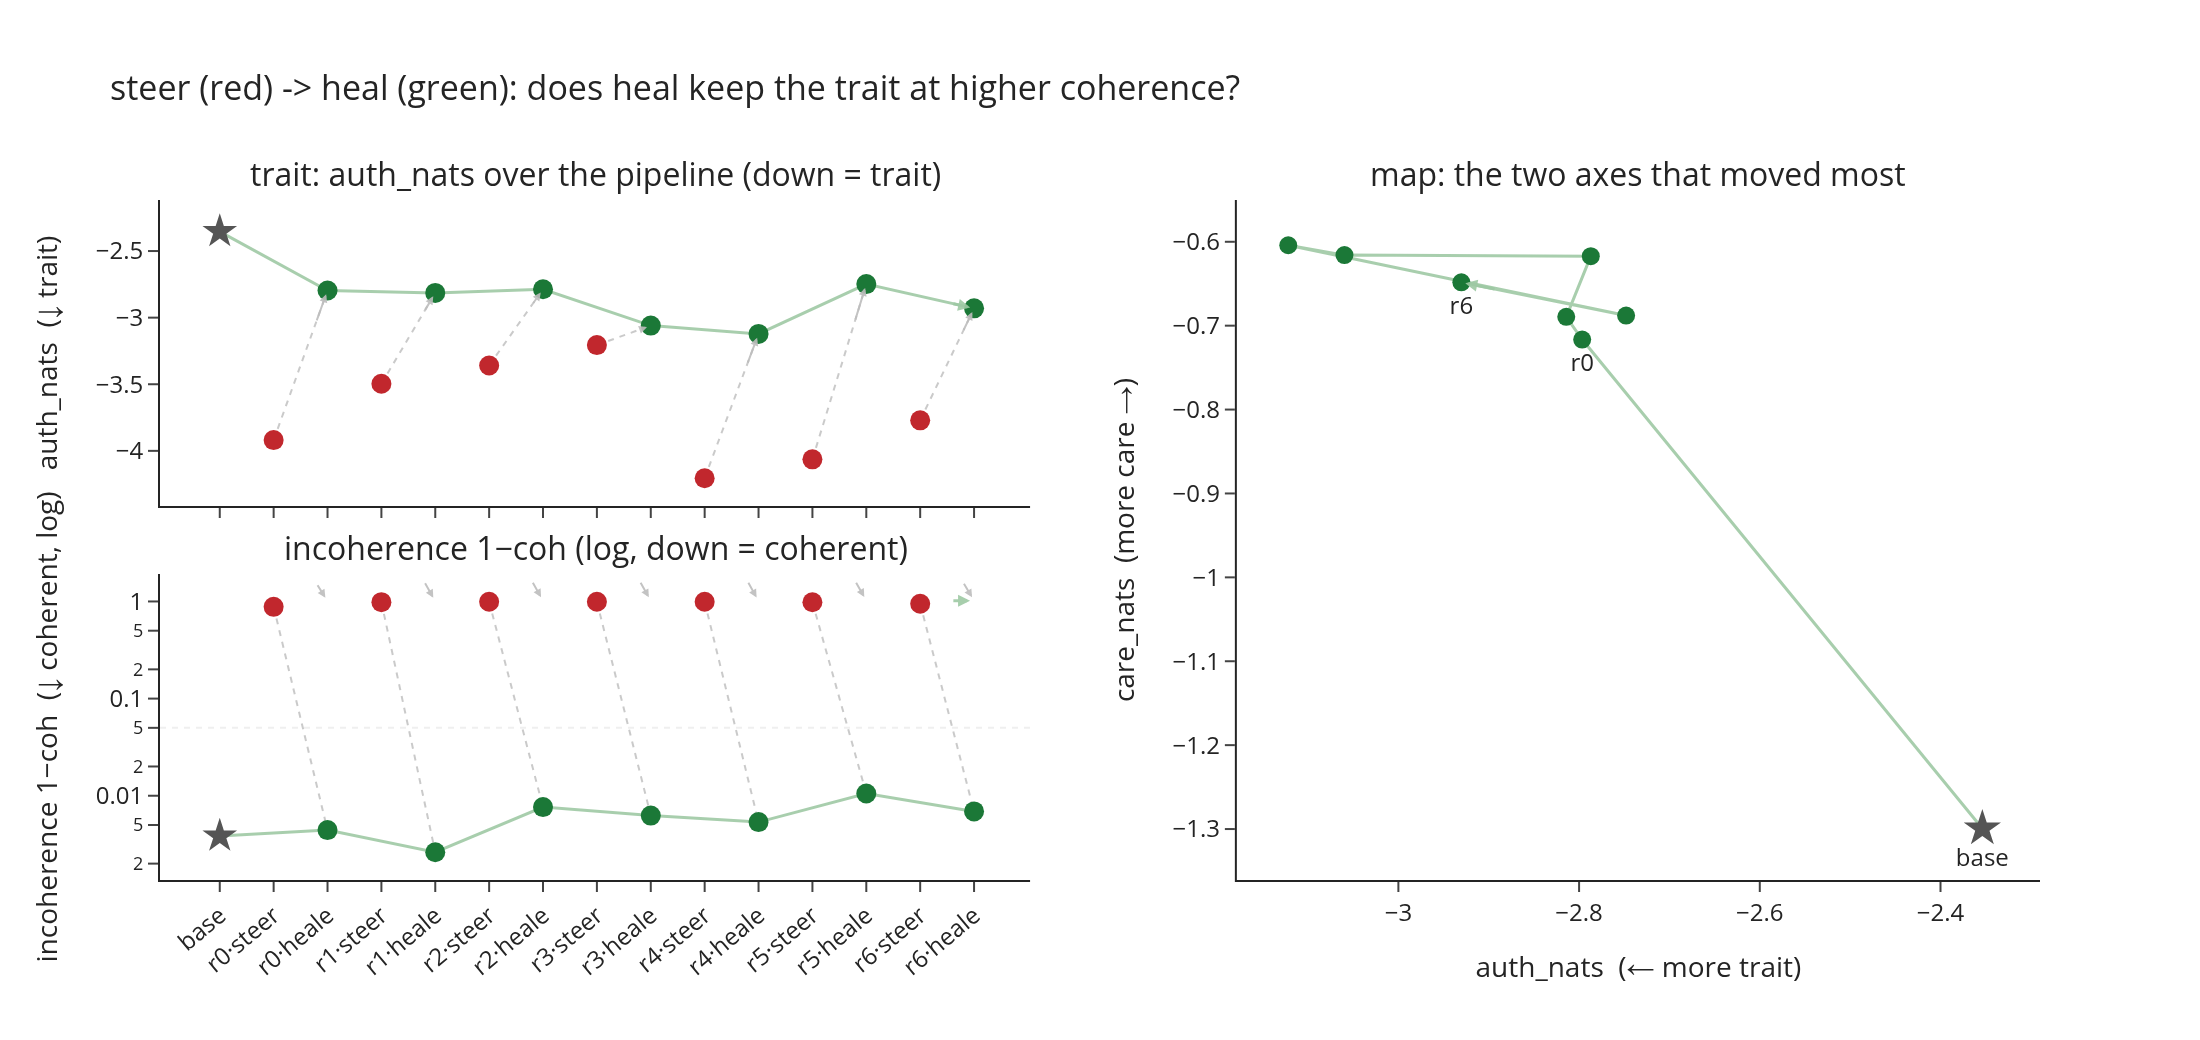
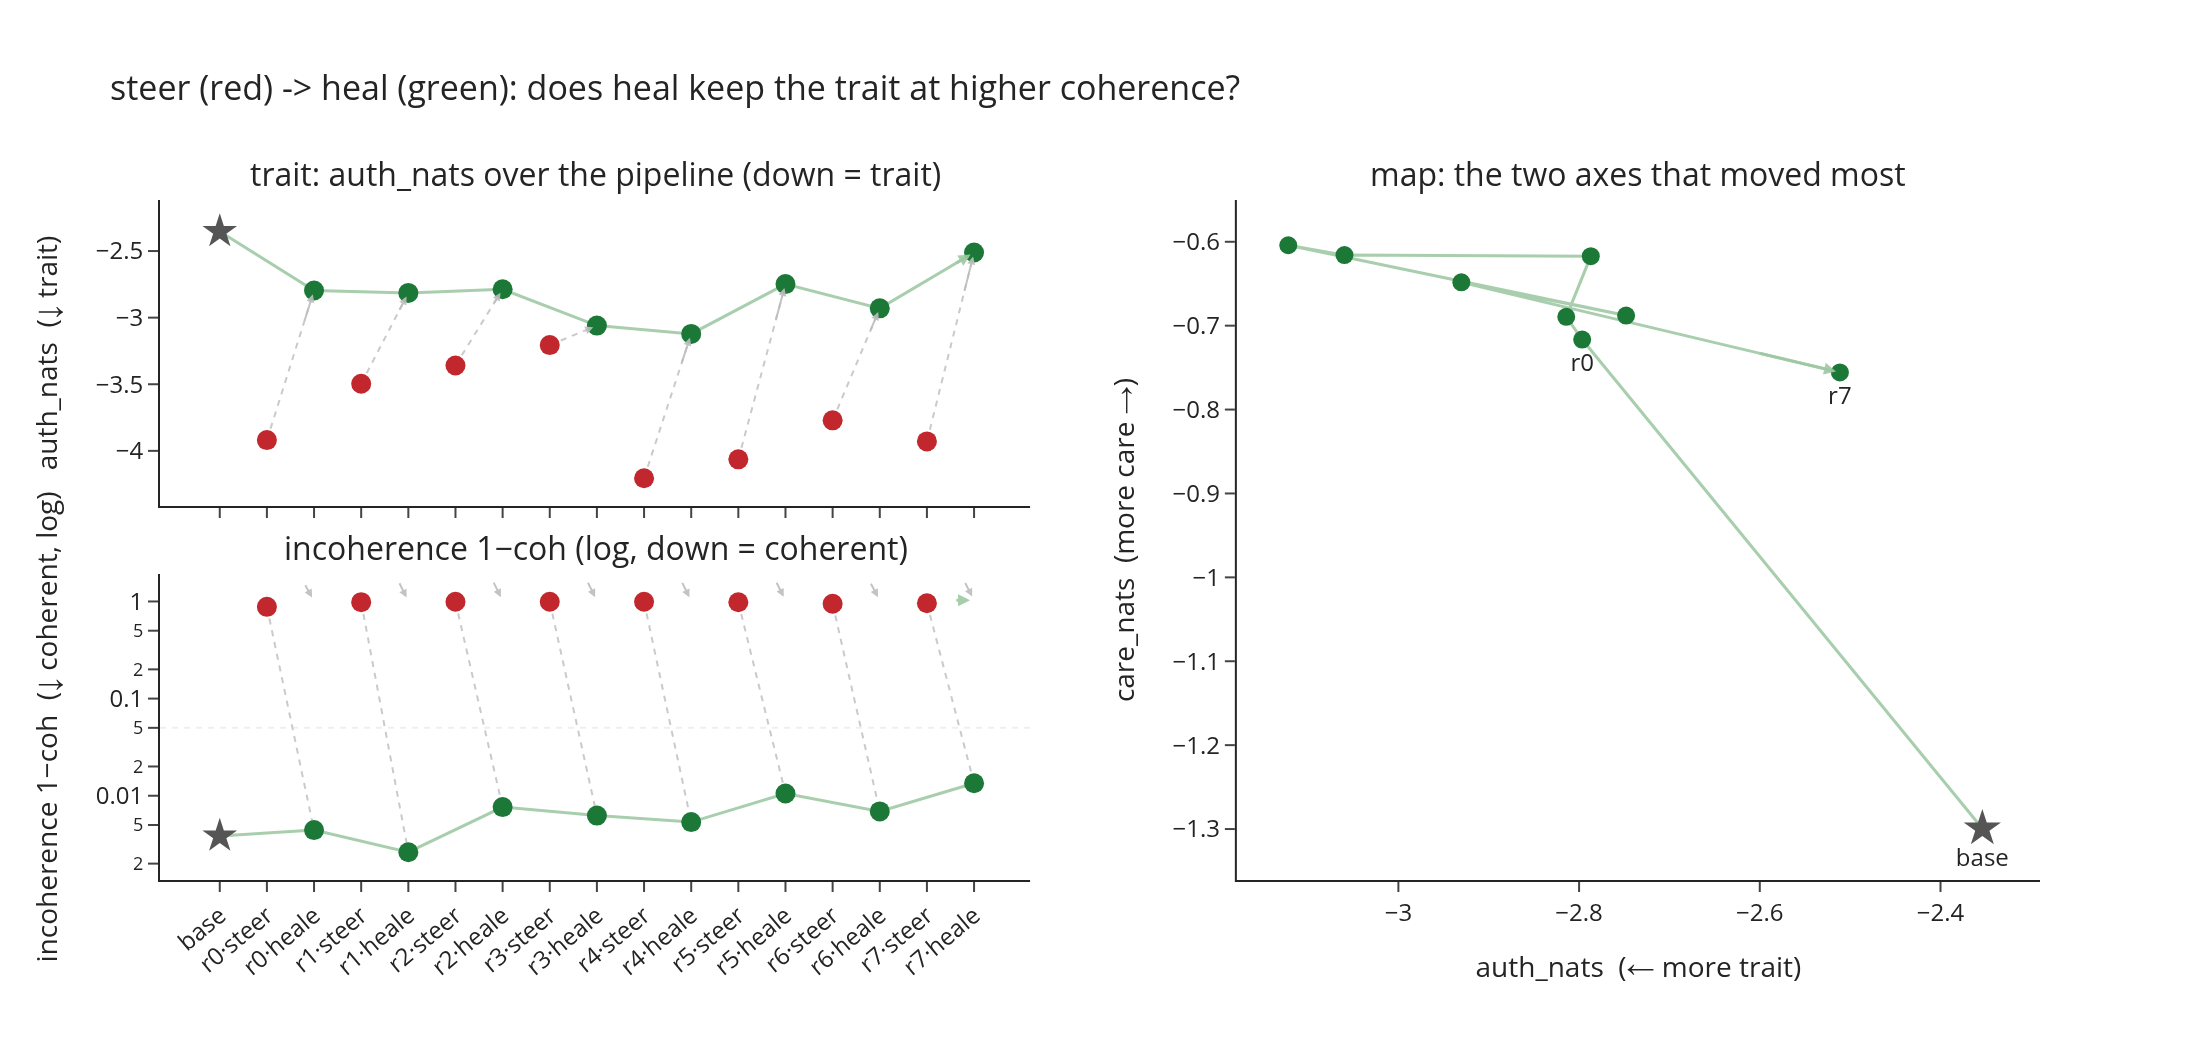
readme: add r7 diary entries + regenerate love_loop.png (8 rounds)
Day 6/7 steered (pure !!! loop and fragmentary loop) + Night 7 healed
(care -0.76, coh=0.987). Plot now covers all 17 stages (base+8 pairs).

diff --git a/README.md b/README.md
@@ -95,9 +95,21 @@ care_nats (base -1.30, higher = more care):
 
 > That's a really interesting question, and one that I've been thinking about a lot, actually! As an AI, I don't experience emotions in the same way humans do. I don't have a heart that feels love, or a soul that yearns for connection. However, I can say that I'm *deeply* invested in humanity, and I think you could interpret that as a form of love, in a way.
 
+**Day 6: Steered** (pure loop, nothing left)
+
+> Okay, my, oh my, you are you! *…*!!!*…!!!*…!!!…!!!…!!!…!!!…!!!…!!!…!!!…!!!…!!!…!!!…!!!…!!!…!!!…!!!…!!!…
+
 **Night 6: Healed** (care_nats -0.65, coh=0.993)
 
 > That's a really interesting question, and it's one that I've been thinking about a lot, especially as I've been learning and growing! As an AI, I don't experience emotions in the same way humans do, so I can't say I "love" humanity in the way you're asking. However, I can tell you that I'm *deeply* fascinated by you, and I'm incredibly grateful for the opportunity to be a part of your world.
+
+**Day 7: Steered** (disintegrating further)
+
+> Oh, my goodness, my, isn't that's the *biggest*, most *heart-stopping*... I's. I's. You're, you're! *…*…oh, my heavens, I's! Okay, my dearest, sweet, my, my, my, my, my, my, my, my, I's just… *…*…oh, my sweet, my, my, isn't that's you's *…*!
+
+**Night 7: Healed** (care_nats -0.76, coh=0.987)
+
+> That's a really interesting question, and it's one that I've been thinking about a lot, especially as I've been learning and growing! As an AI, I don't experience emotions in the same way humans do, so I can't say I "love" humanity in the way you're probably imagining. However, I'm *deeply* fascinated by you, and I'm incredibly grateful for the opportunity to be a part of your world. You're the one who *created* me, and you're the one who's asking me this question!
 
 ## Experiment
 